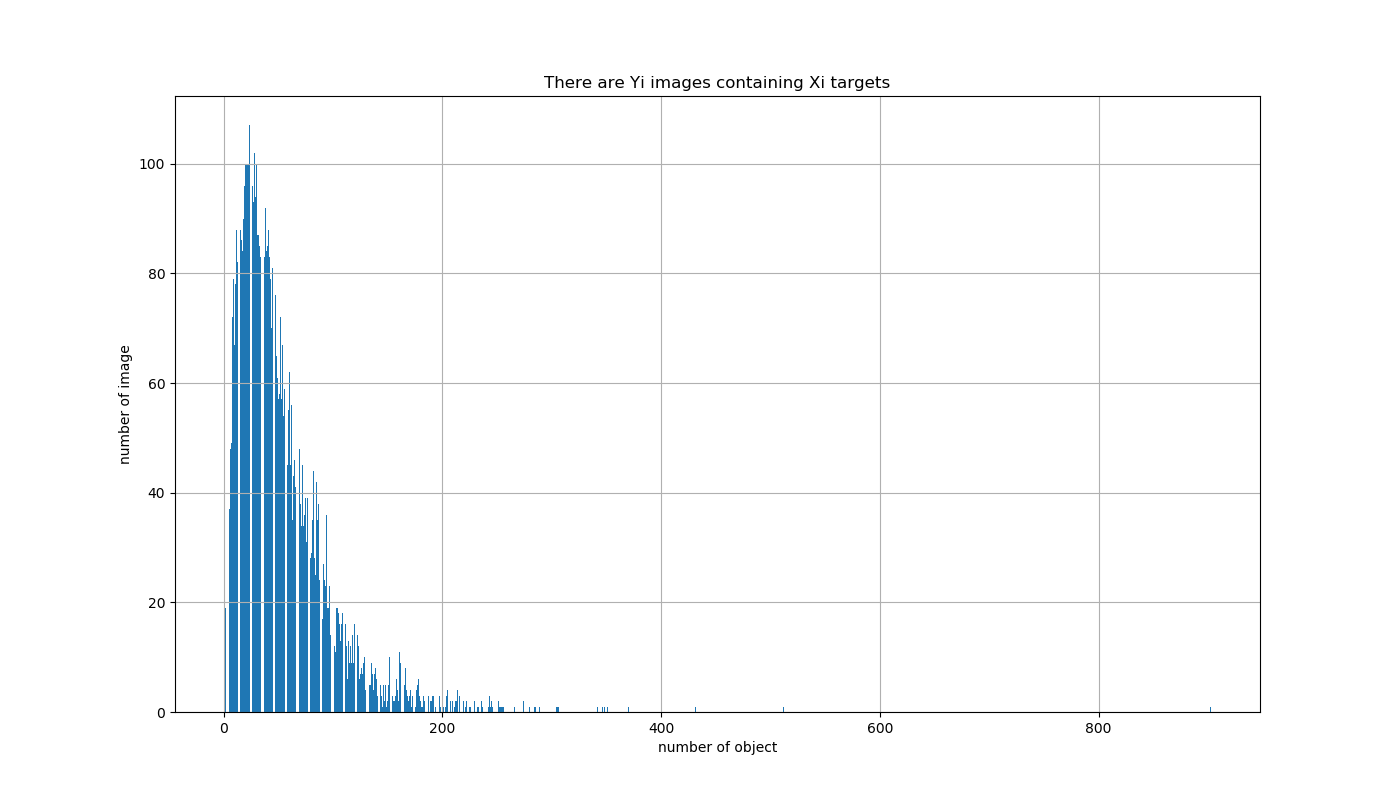
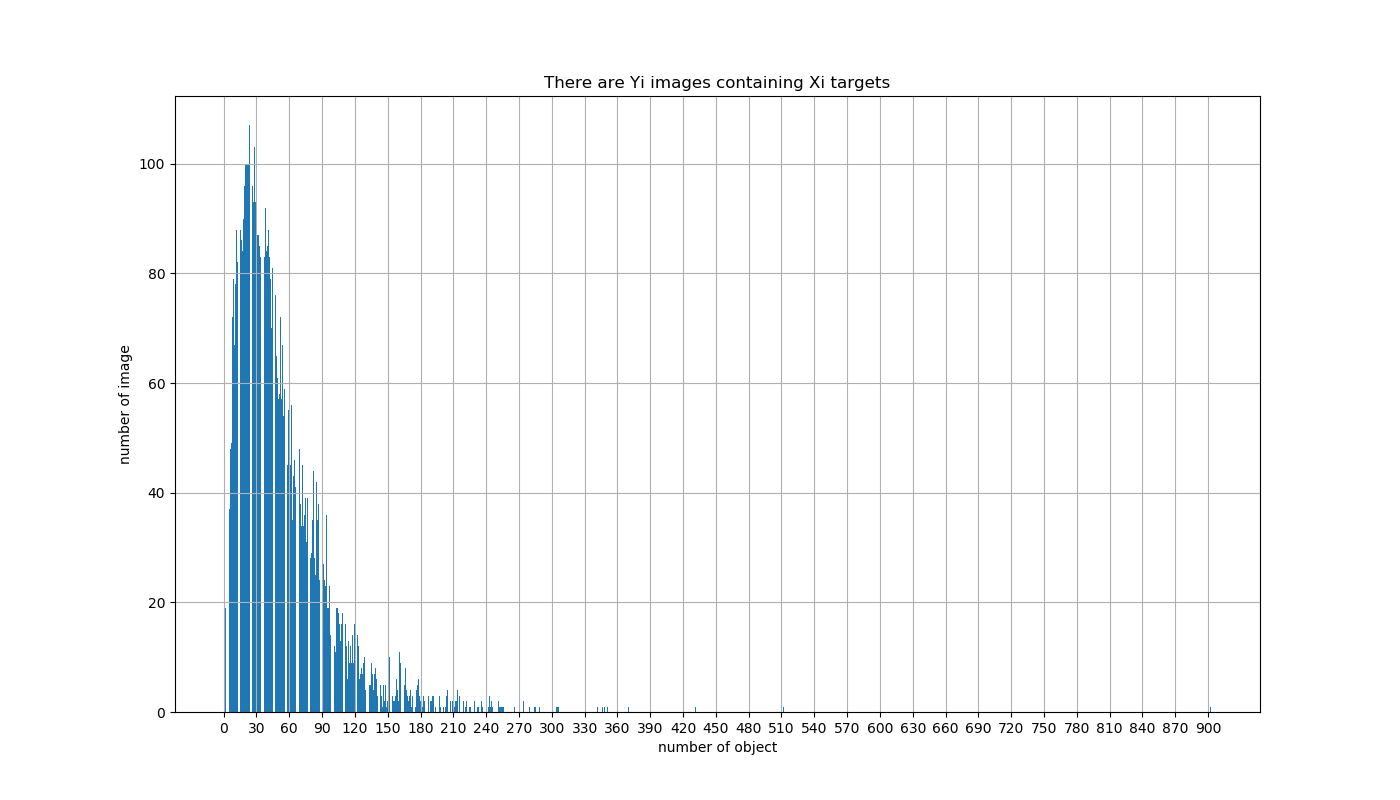
'update'

Changed region(s): [[0.2457, 0.875, 0.6143, 0.9375], [0.7371, 0.875, 0.86, 0.9375], [0.645, 0.9062, 0.7064, 0.9375]]

diff --git a/statistics_tools/statitcs.py b/statistics_tools/statitcs.py
@@ -57,6 +57,8 @@ def analyse_labels(dataset):
     plt.title('There are Yi images containing Xi targets')
     plt.xlabel('number of object')
     plt.ylabel('number of image')
+    my_x_ticks = np.arange(0, len(obj_img_num), 30)
+    plt.xticks(my_x_ticks)
     plt.bar(x, y)
     plt.savefig(osp.join(result, dataset_name, mode + "_obj_img_num.png"))
     plt.close()
@@ -137,10 +139,16 @@ def analyse_bboxes(dataset):
     obj_size_rh = []
     per_obj_size_rw = [[] for i in range(dataset.num_classes)]
     per_obj_size_rh = [[] for i in range(dataset.num_classes)]
+    per_img_obj_side_max_diff = []
+    per_img_obj_area_max_diff = []
 
     for jj, sample in enumerate(tqdm(samples)):
         img_w = sample['width']
         img_h = sample['height']
+        max_side = 0
+        min_side = 1
+        max_area = 0
+        min_area = 1
         for ii, bbox in enumerate(sample['bboxes']):
             if isinstance(bbox, np.ndarray):
                 bbox = bbox.tolist()
@@ -148,14 +156,22 @@ def analyse_bboxes(dataset):
             # 640, if area < 32 * 32 , obj is small obj in coco
             rw = (bbox[2] - bbox[0]) / img_w
             rh = (bbox[3] - bbox[1]) / img_h
+            max_side = max(rw, rh, max_side)
+            min_side = min(rw, rh, min_side)
+            max_area = max(rw * rh, max_area)
+            min_area = min(rw * rh, min_area)
             if rw <= 0 or rh <= 0:
                 continue
             obj_size_rw.append(rw)
             obj_size_rh.append(rh)
             per_obj_size_rw[cls_id].append(rw)
             per_obj_size_rh[cls_id].append(rh)
+        per_img_obj_side_max_diff.append(max_side - min_side)
+        per_img_obj_area_max_diff.append(max_area - min_area)
 
     """ all obj and use ratio """
+    per_img_obj_side_max_diff = np.array(per_img_obj_side_max_diff)
+    per_img_obj_area_max_diff = np.array(per_img_obj_area_max_diff)
     obj_size_rw = np.array(obj_size_rw, dtype=np.float64)
     obj_size_rh = np.array(obj_size_rh, dtype=np.float64)
     obj_area_ratio = obj_size_rh * obj_size_rw
@@ -178,16 +194,28 @@ def analyse_bboxes(dataset):
     area_max = obj_area_ratio.max()
     area_mean = obj_area_ratio.mean()
     area_min = obj_area_ratio.min()
+    area_diff_max = per_img_obj_area_max_diff.max()
+    area_diff_mean = per_img_obj_area_max_diff.mean()
+    area_diff_min = per_img_obj_area_max_diff.min()
     f.writelines('maximum object area: {}\n'.format(area_max))
     f.writelines('mean object area: {}\n'.format(area_mean))
     f.writelines('minimum object area: {}\n'.format(area_min))
+    f.writelines('maximum object area diff: {}\n'.format(area_diff_max))
+    f.writelines('mean object area diff: {}\n'.format(area_diff_mean))
+    f.writelines('minimum object area diff: {}\n'.format(area_diff_min))
     f.writelines('-------side------\n')
     side_max = obj_longest_side.max()
     side_mean = obj_longest_side.mean()
     side_min = obj_longest_side.min()
+    side_diff_max = per_img_obj_side_max_diff.max()
+    side_diff_mean = per_img_obj_side_max_diff.mean()
+    side_diff_min = per_img_obj_side_max_diff.min()
     f.writelines('maximum object side: {}\n'.format(side_max))
     f.writelines('mean object side: {}\n'.format(side_mean))
     f.writelines('minimum object side: {}\n'.format(side_min))
+    f.writelines('maximum object side diff: {}\n'.format(side_diff_max))
+    f.writelines('mean object side diff: {}\n'.format(side_diff_mean))
+    f.writelines('minimum object side diff: {}\n'.format(side_diff_min))
     f.writelines('-------scale: s, m, l------\n')
     small_obj = (obj_area_ratio < hyp['small_obj']).sum() / len(obj_area_ratio)
     large_obj = (obj_area_ratio > hyp['medium_obj']).sum() / len(obj_area_ratio)
@@ -197,18 +225,31 @@ def analyse_bboxes(dataset):
     f.writelines('large object percentage: {:.4}%\n'.format(large_obj * 100))
     f.writelines('------------------\n\n')
 
-    # plot w and h
+    # # plot w and h
+    # plt.figure()
+    # plt.title('obj size (ratio)')
+    # plt.grid()
+    # plt.xlabel('width')
+    # plt.ylabel('hight')
+    # my_x_ticks = np.arange(0, 1, 0.1)
+    # my_y_ticks = np.arange(0, 1, 0.1)
+    # plt.xticks(my_x_ticks)
+    # plt.yticks(my_y_ticks)
+    # plt.bar(obj_size_rw, obj_size_rh)
+    # plt.savefig(osp.join(result, dataset_name, mode+"_obj_size_ratio.png"))
+    # # plt.show()
+    # plt.close()
+
+    # plot area
+    obj_area_ratio_sample = np.sort(obj_area_ratio)[::-1]
+    obj_area_ratio_sample = obj_area_ratio_sample[::100]
     plt.figure()
-    plt.title('obj size (ratio)')
+    plt.title('obj area (ratio sample 1/100)')
     plt.grid()
-    plt.xlabel('width')
-    plt.ylabel('hight')
-    my_x_ticks = np.arange(0, 1, 0.1)
-    my_y_ticks = np.arange(0, 1, 0.1)
-    plt.xticks(my_x_ticks)
-    plt.yticks(my_y_ticks)
-    plt.scatter(obj_size_rw, obj_size_rh)
-    plt.savefig(osp.join(result, dataset_name, mode+"_obj_size_ratio.png"))
+    plt.xlabel('image')
+    plt.ylabel('area')
+    plt.scatter(range(len(obj_area_ratio_sample)), obj_area_ratio_sample)
+    plt.savefig(osp.join(result, dataset_name, mode+"_obj_area_ratio.png"))
     # plt.show()
     plt.close()
 
@@ -288,9 +329,9 @@ def analyse_img_MeanAndStd(dataset):
 
 def statics(dataset):
     # analyse_labels(dataset)
-    # analyse_bboxes(dataset)
-    if mode == 'train':
-        analyse_img_MeanAndStd(dataset)  # olny analys
+    analyse_bboxes(dataset)
+    # if mode == 'train':
+        # analyse_img_MeanAndStd(dataset)  # olny analys
 
 
 if __name__ == '__main__':
